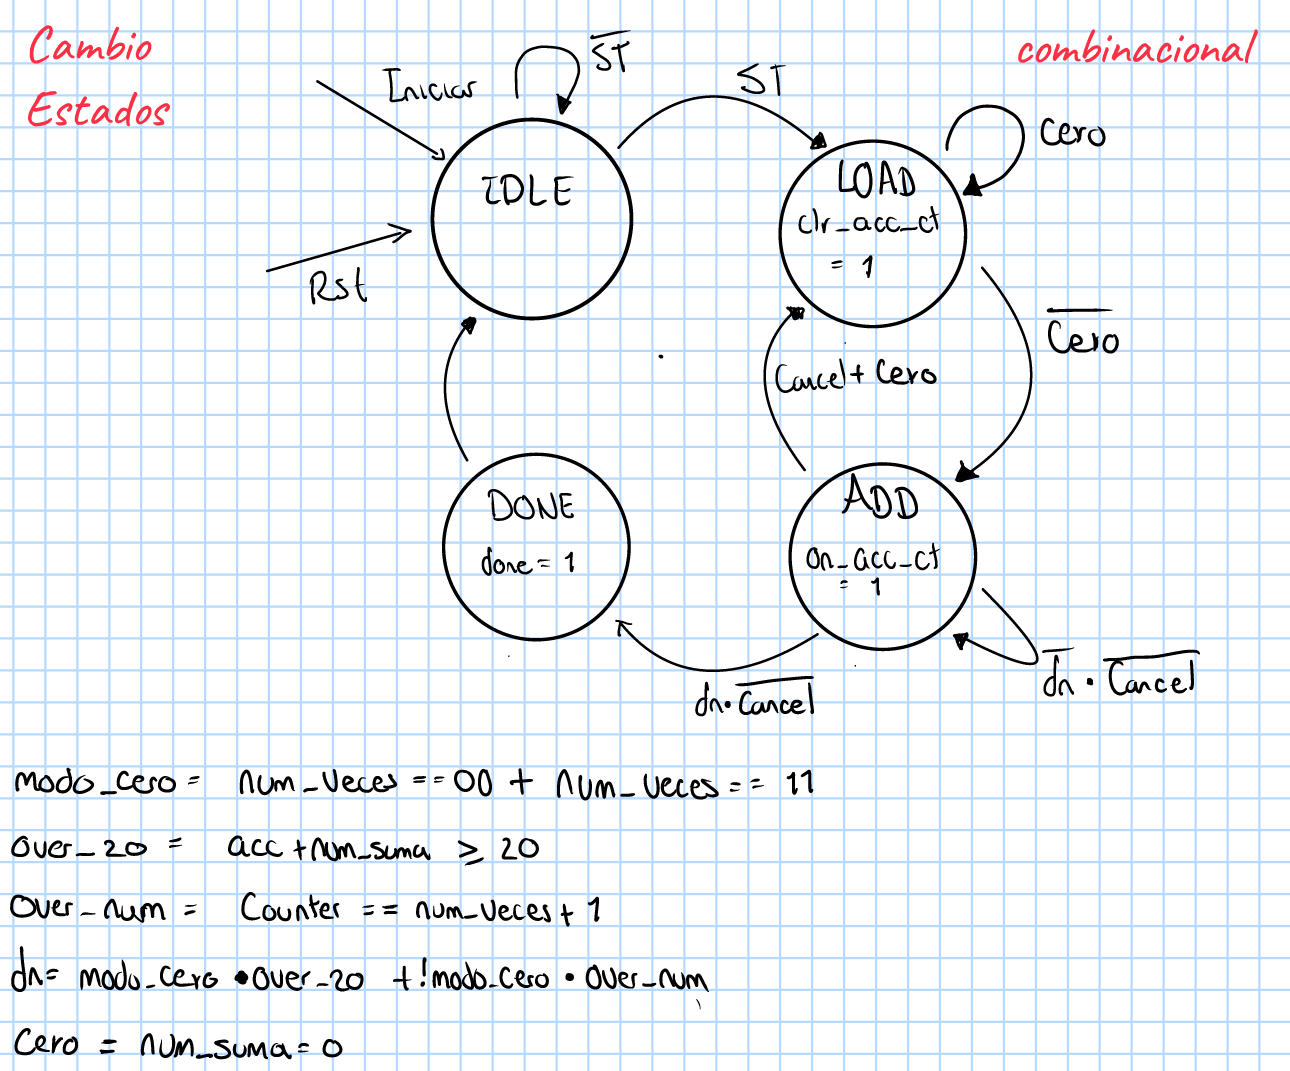
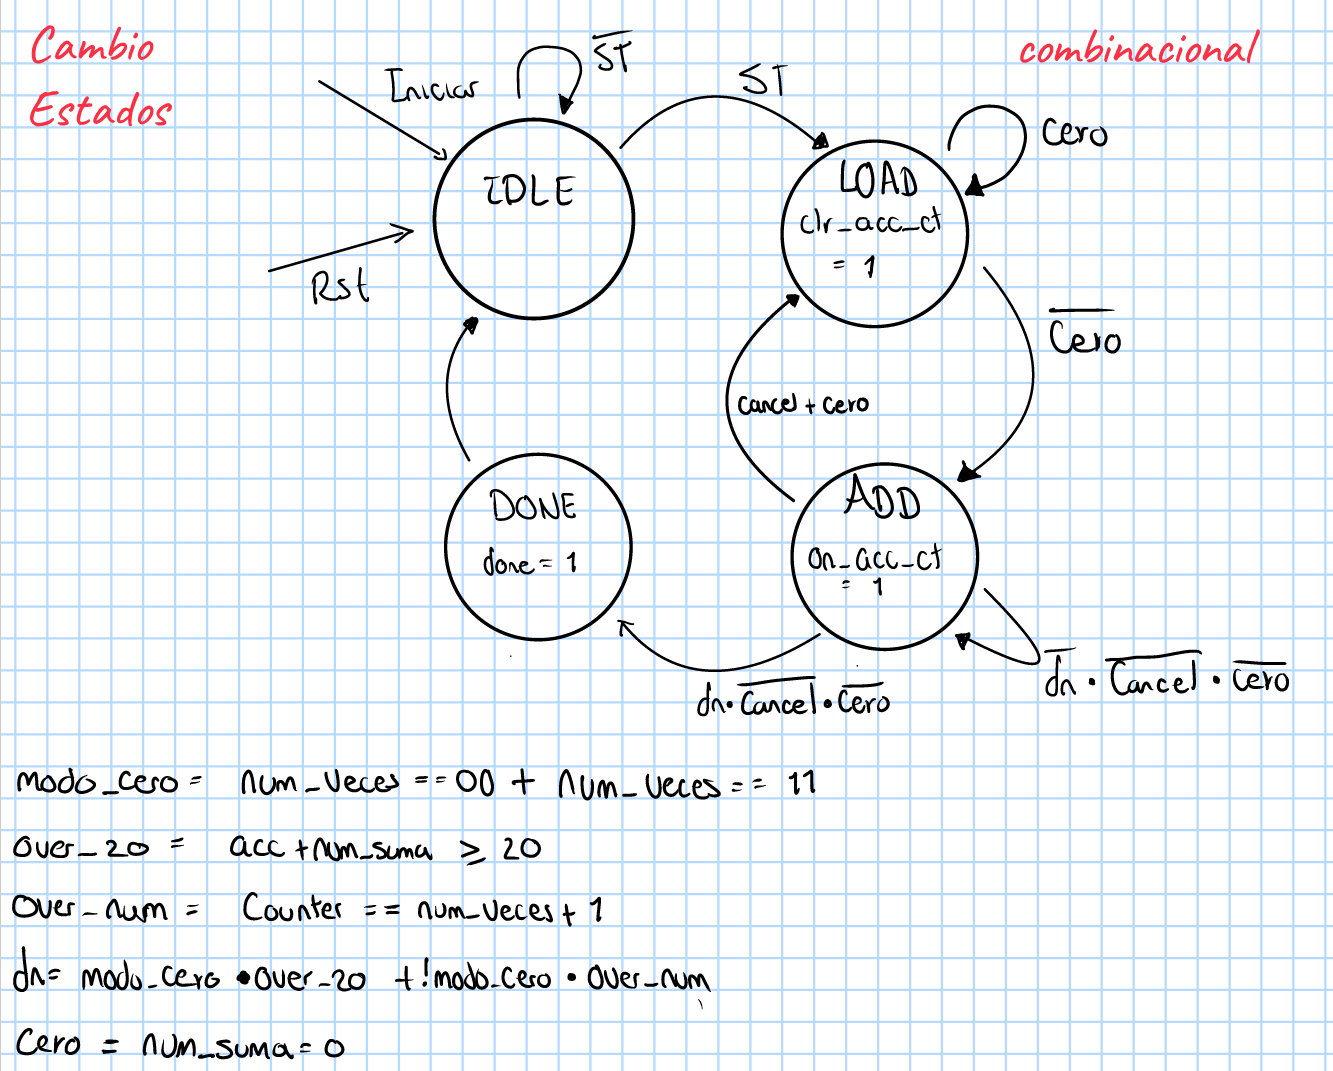
Aclarar condiciones de transición y cancelación del acumulador

Changed region(s): [[0.0, 0.0, 1.0, 1.0]]

diff --git a/README.md b/README.md
@@ -111,7 +111,7 @@ Con una configuración estable, los modos de cantidad fija realizan como máximo
 
 #### Diagrama de transición de estados
 
-El diagrama incluye la equivalencia de los modos `00` y `11`, la espera en `LOAD` cuando el sumando es cero y el retorno desde `ADD` por cancelación o sumando cero. En las expresiones booleanas del dibujo, `+` representa OR lógico y el punto representa AND lógico; en `acc + num_suma` y `num_veces + 1`, `+` representa suma aritmética. La transición `ADD → LOAD` tiene prioridad sobre la permanencia en `ADD` y la finalización; estas últimas se consideran únicamente cuando `cancel = 0` y `Cero = 0`, como detalla la tabla de transición.
+El diagrama incluye la equivalencia de los modos `00` y `11`, la espera en `LOAD` cuando el sumando es cero y el retorno desde `ADD` por cancelación o sumando cero. En las expresiones booleanas del dibujo, `+` representa OR lógico y el punto representa AND lógico; en `acc + num_suma` y `num_veces + 1`, `+` representa suma aritmética. Las condiciones de salida de `ADD` son mutuamente excluyentes: si `cancel = 1` o `Cero = 1`, se pasa a `LOAD`; solo cuando ambas señales valen cero, `dn` determina si se pasa a `DONE` o se permanece en `ADD`. Por tanto, no es necesario interpretar un orden de selección entre las flechas.
 
 ![Diagrama de transición de estados del acumulador](src/img/accumulator_state_diagram.png)
 
@@ -140,7 +140,7 @@ Las condiciones siguientes se evalúan con `reset = 0` y utilizan los valores ac
 | `DONE` | Incondicional | `IDLE` |
 | Caso `default` | Estado no reconocido por el `case` | `IDLE` |
 
-Dentro de `ADD`, `cancel` tiene prioridad sobre ambas condiciones de finalización; fuera de ese estado no interviene en las transiciones. `start` solo se consulta en `IDLE`.
+Dentro de `ADD`, activar `cancel` conduce a `LOAD`, incluso si se cumple el criterio de terminación. Las transiciones a `DONE` o de permanencia en `ADD` requieren `cancel = 0` y un sumando distinto de cero. Fuera de `ADD`, `cancel` no interviene en las transiciones. `start` solo se consulta en `IDLE`.
 
 #### Errores encontrados al implementar el HDL y su corrección
 
@@ -152,7 +152,7 @@ Con la condición incorrecta `acc >= 20` y un sumando de 5, el acumulador alcanz
 
 El segundo error tenía la misma causa. Para realizar `num_veces + 2` sumas, comparar directamente `counter == num_veces + 2` hacía que se completara una operación adicional al entrar en `DONE`. Por ejemplo, con `num_veces = 1`, se terminaban realizando cuatro sumas en lugar de tres. Se cambió la condición a `counter == num_veces + 1`: cuando el contador vale 2, se prepara la salida de `ADD` y el siguiente flanco registra simultáneamente la tercera suma, el contador en 3 y el estado `DONE`.
 
-Estos errores no se debían a un orden accidental de ejecución entre los bloques, sino a no anticipar la última actualización de los registros. La lógica de siguiente estado es combinacional (`always @(*)`); no se ejecuta únicamente en el flanco del reloj. En la versión actual, los modos `00` y `11` usan la comparación anticipada de umbral y los modos `01` y `10` usan la comparación anticipada del contador, siempre respetando la prioridad de `cancel` y del retorno a `LOAD` por sumando cero.
+Estos errores no se debían a un orden accidental de ejecución entre los bloques, sino a no anticipar la última actualización de los registros. La lógica de siguiente estado es combinacional (`always @(*)`); no se ejecuta únicamente en el flanco del reloj. En la versión actual, los modos `00` y `11` usan la comparación anticipada de umbral y los modos `01` y `10` usan la comparación anticipada del contador. Estas comparaciones permiten finalizar únicamente si `cancel = 0` y `num_suma != 0`; en caso contrario, desde `ADD` se regresa a `LOAD`.
 
 #### Tabla de salidas y operaciones por estado
 
@@ -277,7 +277,7 @@ El testbench [`tb_accumulator`](src/tb_accumulator.v) genera un reloj de periodo
 | 3 | Modo `11`, `num_suma = 4`, hasta alcanzar 20, con cancelación | La operación se reinicia y finaliza con `acc = 20`. |
 | 4 | `num_suma = 6`, hasta `acc >= 20` | Secuencia `0, 6, 12, 18, 24`; resultado `acc = 24`. |
 | 5 | `num_suma = 5`, hasta `acc >= 20` | Finaliza exactamente con `acc = 20`; verifica el caso de igualdad. |
-| 6 | Tres sumas de 5; `cancel` coincide con la condición de finalización | Se prioriza `LOAD` sobre `DONE`, se reinicia la operación y finaliza con `acc = 15`. |
+| 6 | Tres sumas de 5; `cancel` coincide con la condición de finalización | `cancel = 1` excluye la transición a `DONE` y conduce a `LOAD`; la operación se reinicia y finalmente entrega `acc = 15`. |
 | 7 | Modo `11`, `num_suma = 6` | Cuatro sumas y resultado 24, igual que en la prueba 4 con modo `00`. |
 | 8 | Modo `01`, `num_suma = 15` | Tres sumas y resultado 45. |
 | 9 | Modo `10`, `num_suma = 15` | Cuatro sumas y resultado 60, sin desbordamiento. |
@@ -285,7 +285,7 @@ El testbench [`tb_accumulator`](src/tb_accumulator.v) genera un reloj de periodo
 | 14 | Modo `00`; el sumando cambia de 6 a 0 durante `ADD` y luego vuelve a 6 | Retorno a `LOAD`, borrado y reinicio; resultado 24. |
 | 15 | Modo `11`, `num_suma = 1` | Veinte sumas y resultado 20; contador final igual a 20. |
 
-En todas las pruebas, `done` permanece activo durante un solo ciclo. Durante la tercera prueba, el acumulador alcanza 12, regresa a cero por la operación de `LOAD` y reinicia la suma. La sexta prueba demuestra específicamente la prioridad de `cancel` cuando también se cumple el criterio de terminación. `test_id` coincide con el número de prueba de la tabla.
+En todas las pruebas, `done` permanece activo durante un solo ciclo al finalizar la operación. Durante la tercera prueba, el acumulador alcanza 12, regresa a cero por la operación de `LOAD` y reinicia la suma. La sexta prueba comprueba que `cancel = 1` conduce a `LOAD` sin activar `done`, aunque también se cumpla el criterio de terminación. `test_id` coincide con el número de prueba de la tabla.
 
 #### Evidencia
 
@@ -299,7 +299,7 @@ Las pruebas 1 y 2 usan `num_suma = 5`. El modo `01` termina tras tres sumas, con
 
 ![Detalle de los modos de tres y cuatro sumas](src/img/accumulator_fixed_sums.png)
 
-#### Prioridad de cancelación
+#### Cancelación coincidente con el criterio de terminación
 
 En la prueba 6, `cancel` se activa cuando la siguiente suma completaría la operación. El controlador entra en `LOAD` (`01`) en lugar de `DONE`: todavía se registra la suma de ese flanco, pero `done` permanece desactivado. En el siguiente flanco se borran los registros y comienza de nuevo la secuencia, que finalmente entrega 15.
 
@@ -435,7 +435,7 @@ Cada diseño separa el registro de estado de la lógica combinacional encargada 
 - El uso de máquinas de estados finitos y de su representación mediante cartas ASM permite describir de forma ordenada sistemas cuyo comportamiento depende de una secuencia de decisiones y operaciones. En electrónica digital, esta organización facilita dividir un problema complejo en estados, condiciones de transición y acciones concretas. El mismo enfoque puede aplicarse al control de procesos, la automatización y los protocolos de comunicación.
 - La separación entre la unidad de control y el datapath permitió distinguir cuándo debe ejecutarse una operación de cómo se realiza. En el acumulador, la FSM coordina el borrado y las sumas; en el transmisor, coordina la carga, el desplazamiento y la duración de cada bit. Esta separación facilita comprender el diseño y localizar errores sin mezclar las decisiones de control con el procesamiento de los datos.
 - El semáforo mostró que un estado no representa solamente una salida, sino también información necesaria para decidir el comportamiento futuro. Aunque `S1` y `S3` encienden la misma luz amarilla, distinguirlos permite determinar si la siguiente luz debe ser roja o verde, sin una bandera adicional de dirección.
-- La implementación del acumulador evidenció la importancia de analizar qué valores se leen y cuáles se actualizan en cada flanco de reloj. Las condiciones anticipadas de finalización permiten incluir la última suma sin ejecutar una operación adicional. Asimismo, definir la prioridad de `cancel` evita ambigüedades cuando una cancelación coincide con el criterio de terminación.
+- La implementación del acumulador evidenció la importancia de analizar qué valores se leen y cuáles se actualizan en cada flanco de reloj. Las condiciones anticipadas de finalización permiten incluir la última suma sin ejecutar una operación adicional. Asimismo, condicionar la finalización a que `cancel` esté desactivado garantiza que una solicitud de cancelación lleve el sistema a `LOAD`, incluso cuando se cumple el criterio de terminación. Las condiciones mutuamente excluyentes del diagrama expresan este comportamiento sin ambigüedad.
 - El transmisor permitió verificar que cada bit permanece en la salida durante cuatro ciclos de reloj. También se comprobó que `busy` indica una transmisión en curso y que `done` señala su finalización durante un ciclo. El reset interrumpe la transmisión y devuelve el circuito al estado de reposo.
 - Las comprobaciones automáticas y las formas de onda se complementaron: los testbenches verificaron resultados y tiempos concretos, mientras que GTKWave permitió observar la relación entre estados, registros y salidas. Los resultados respaldan el funcionamiento en los escenarios ensayados, pero también muestran la importancia de documentar los límites de los registros y ampliar las pruebas a casos extremos antes de generalizar el diseño o implementarlo físicamente.
 
